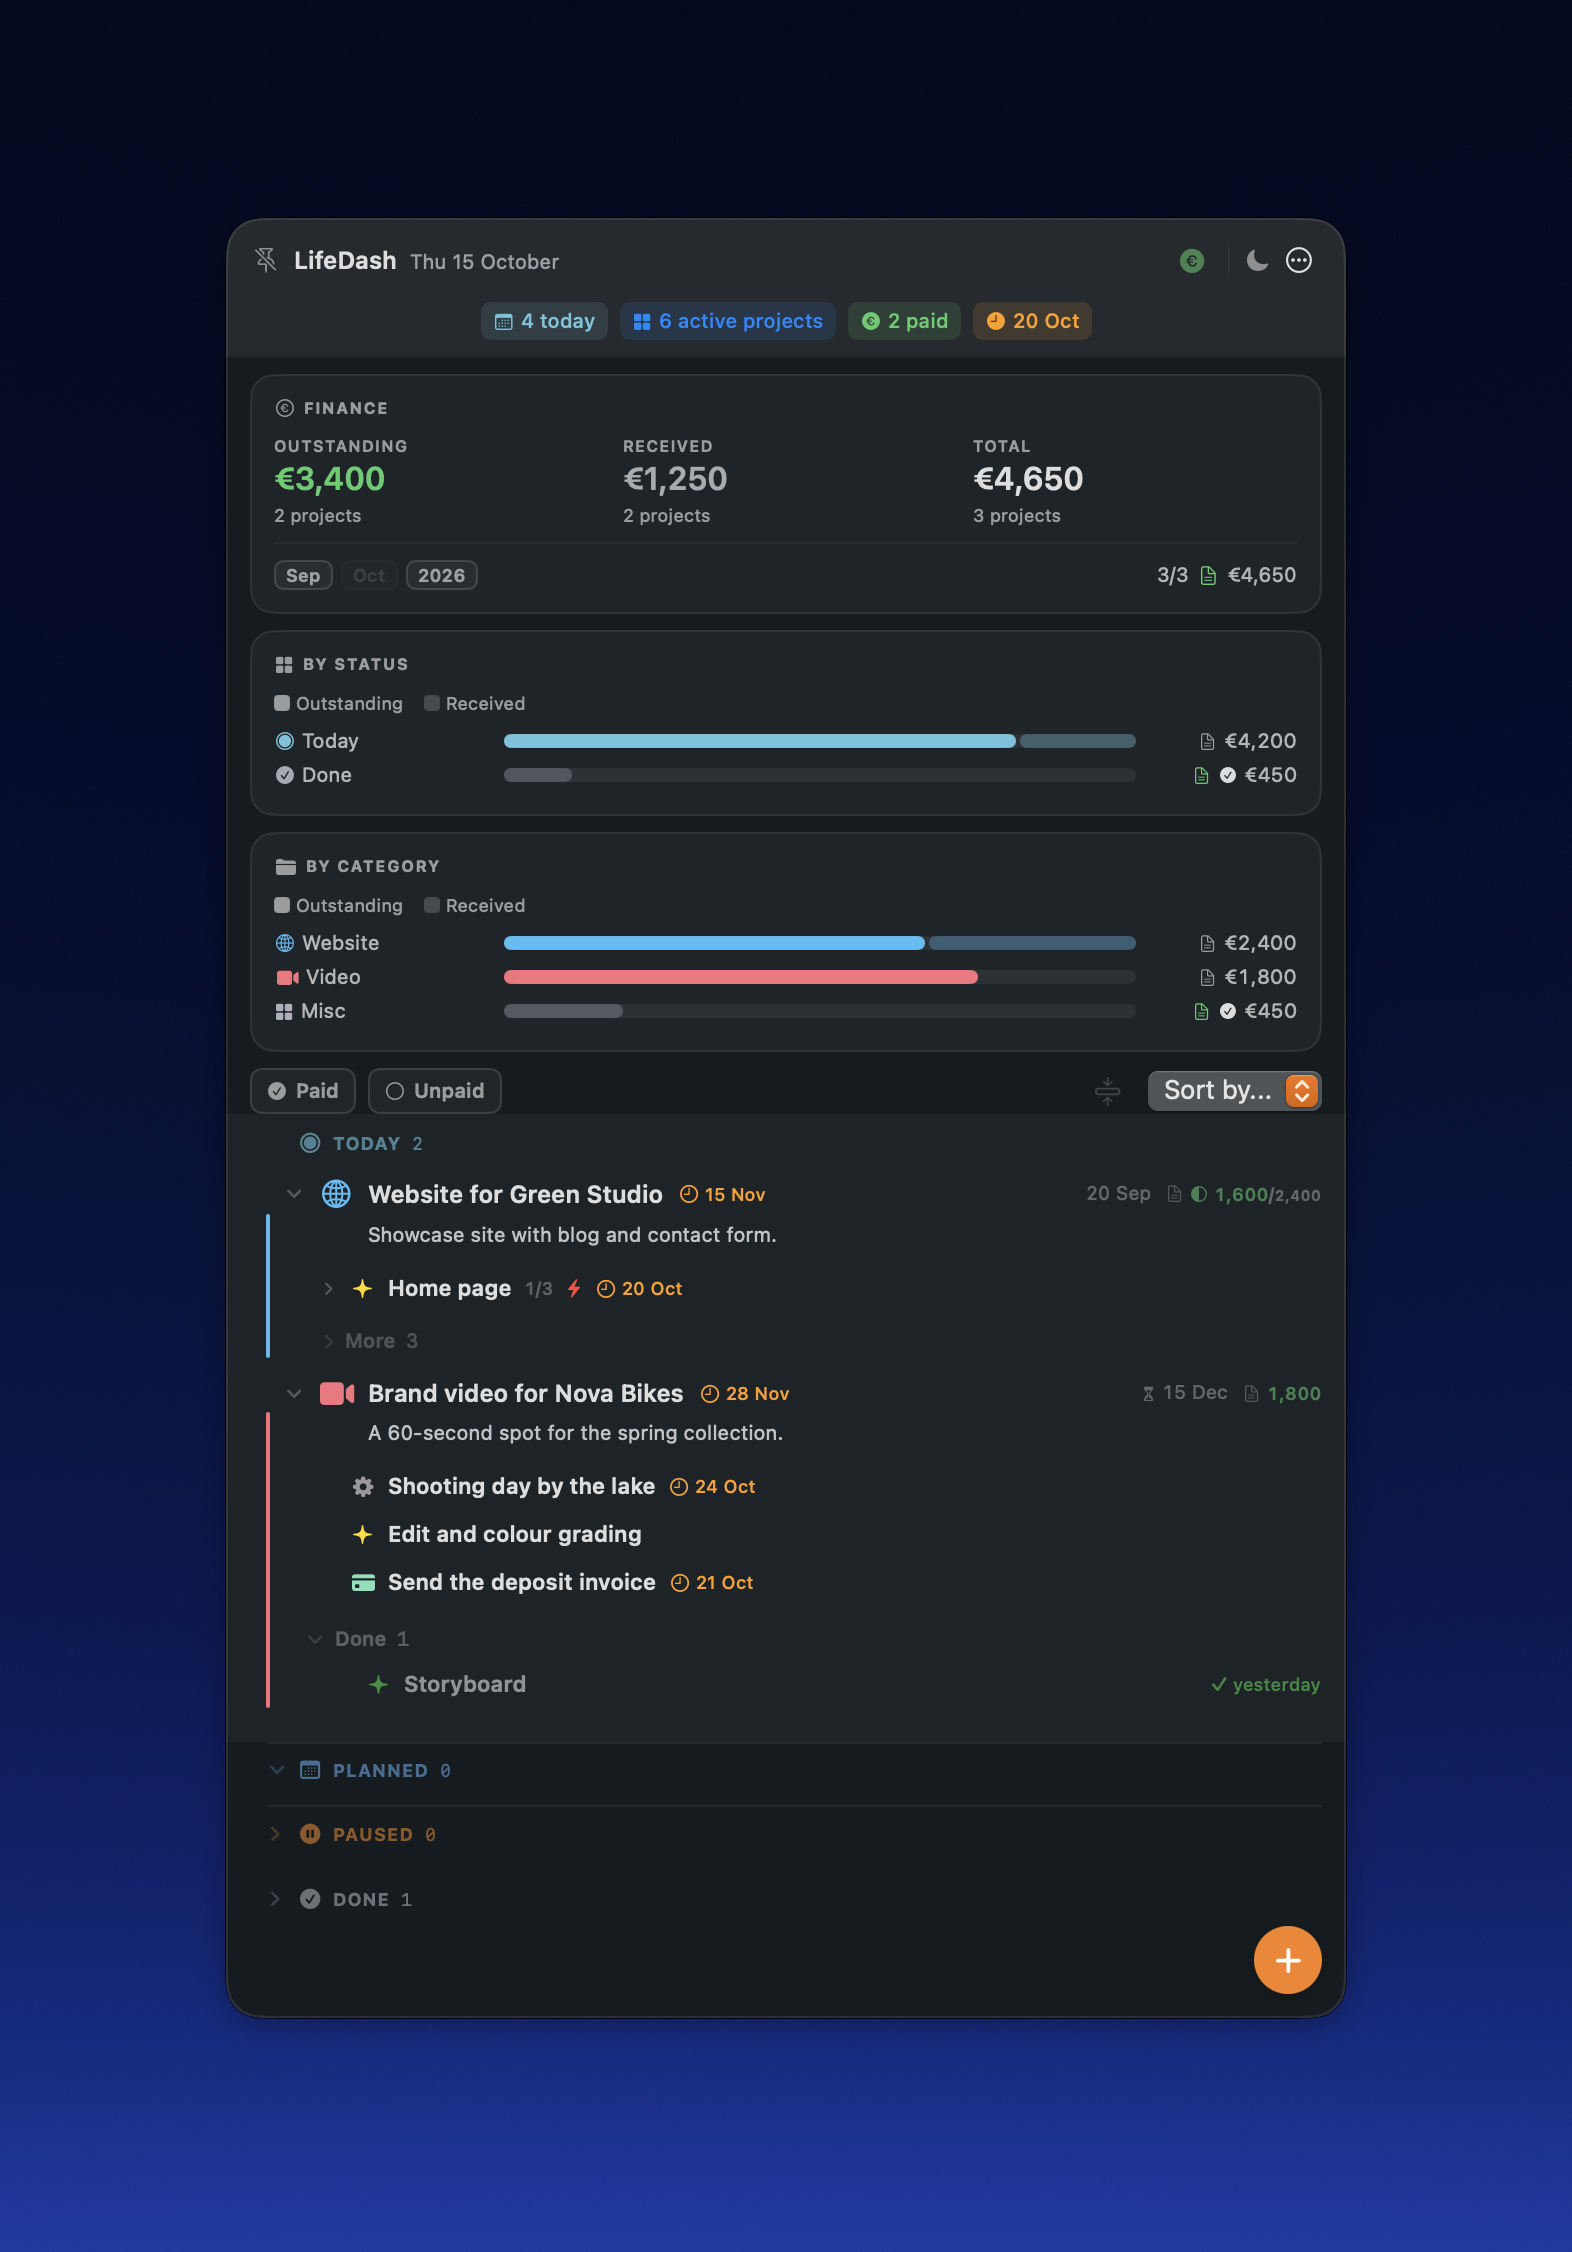
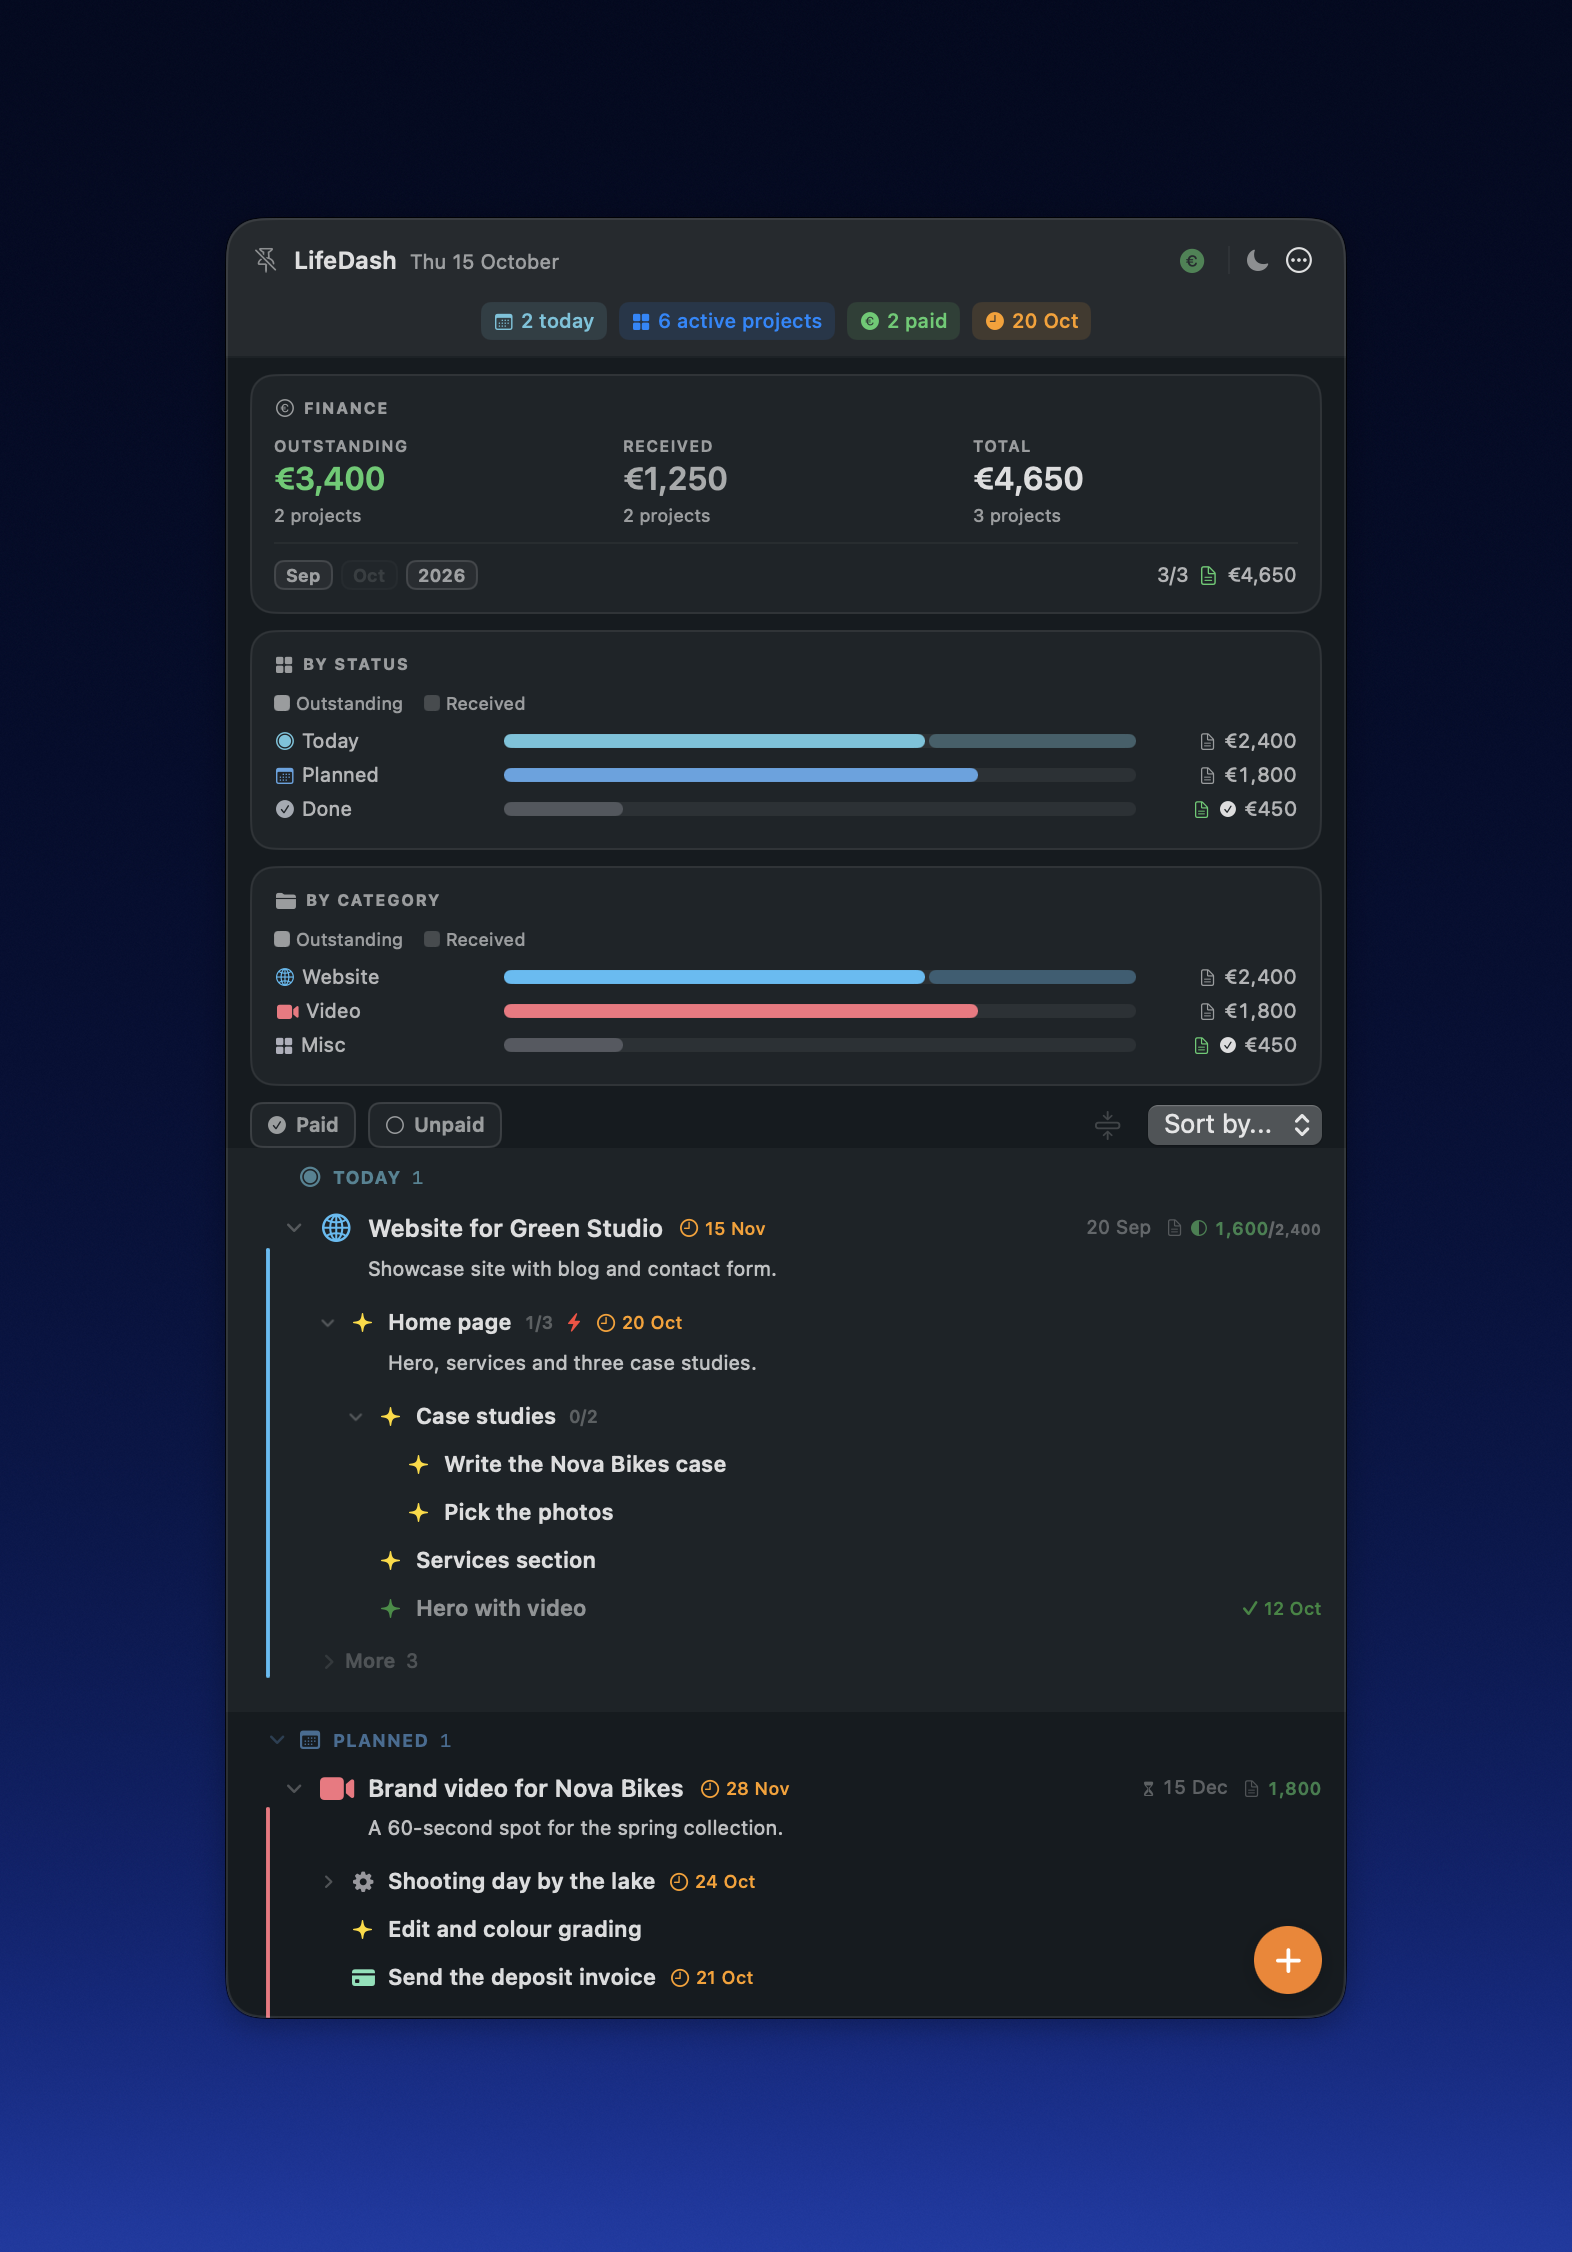
README: AI agents, nested sub-tasks, swipe; new Mac and iPhone screenshots

diff --git a/README.md b/README.md
@@ -11,6 +11,12 @@ December. Each area of your life is a project, each thing to do is a task, and
 the app always shows you the next step, so the day feels like a list of small
 wins instead of a pile of worries.
 
+**Built to work with AI agents.** Claude Code, Codex, Cursor and other agents
+can read your projects, add tasks and tick them off through the `lifedash`
+command, which the app installs together with the instructions the agents need.
+No heavy integration to set up: it is a small command with compact output, so
+an agent spends very few tokens to use it.
+
 It is a native Mac app and a web app for your phone, in English and Italian,
 kept in sync and encrypted end to end: your data stays yours.
 
@@ -35,8 +41,11 @@ kept in sync and encrypted end to end: your data stays yours.
 1. **Projects** are the areas of your life (Home, Health, a trip, a client).
    Each one has a status: *Today* (active now), *Planned*, *Paused* or
    *Done*.
-2. **Tasks** live inside projects and can contain sub-tasks, as deep as you
-   need. A task can be *to do*, *in progress*, *blocked* (with a note on why)
+2. **Tasks** live inside projects, and every task can hold its own
+   sub-tasks, which can hold theirs, with no limit: a page of a website, the
+   sections of that page, the pieces of each section. Shape every project the
+   way it really is, from a two-step errand to a client job with dozens of
+   parts. A task can be *to do*, *in progress*, *blocked* (with a note on why)
    or *done*, and can be marked *urgent*.
 3. **Next task.** The card at the top shows the one thing to do now: the
    first open task of your first active project, starting with what is
@@ -86,6 +95,8 @@ only in the browser, on any computer.
 
 - **Add**: the round **+** button creates a project or a task. Inside a
   project, the **+** on a row adds a sub-task.
+- **Swipe** (phone and tablet): swipe a row to the right to edit it, to the
+  left to add a sub-task or a task inside it.
 - **Edit**: click (or tap) a row, or the pencil, to open the editor: title,
   description, status, priority, due date, reminders, attachments.
 - **Tick**: the check mark completes a task. Completed tasks fold away under
@@ -93,13 +104,16 @@ only in the browser, on any computer.
 - **Lists become sub-tasks**: write a description as a list (`- Milk`,
   `- Bread`) and each line becomes a sub-task you can tick on its own.
 - **Attachments**: add photos, PDFs and documents (up to 10 MB each) to any
-  project or task: the receipt, the warranty, the appointment letter.
+  project or task: the client's brief, a reference photo, the quote. PDFs and
+  images show a preview right under the description.
 - **Fold and focus**: every project and task with sub-tasks is an accordion.
   Open only what you are working on; the app remembers.
 - **Duplicate** a project or task to reuse it (the monthly shopping, a
   recurring check-up).
 - **Compact mode** (Mac, *View › Compact Mode*): one slim bar on the
   edge of the screen with just the next task and its check mark.
+
+<p align="center"><img src="docs/img/mac-new-project.png" width="560" alt="Creating a new project on the Mac"></p>
 
 ## Money: the Finance view
 
